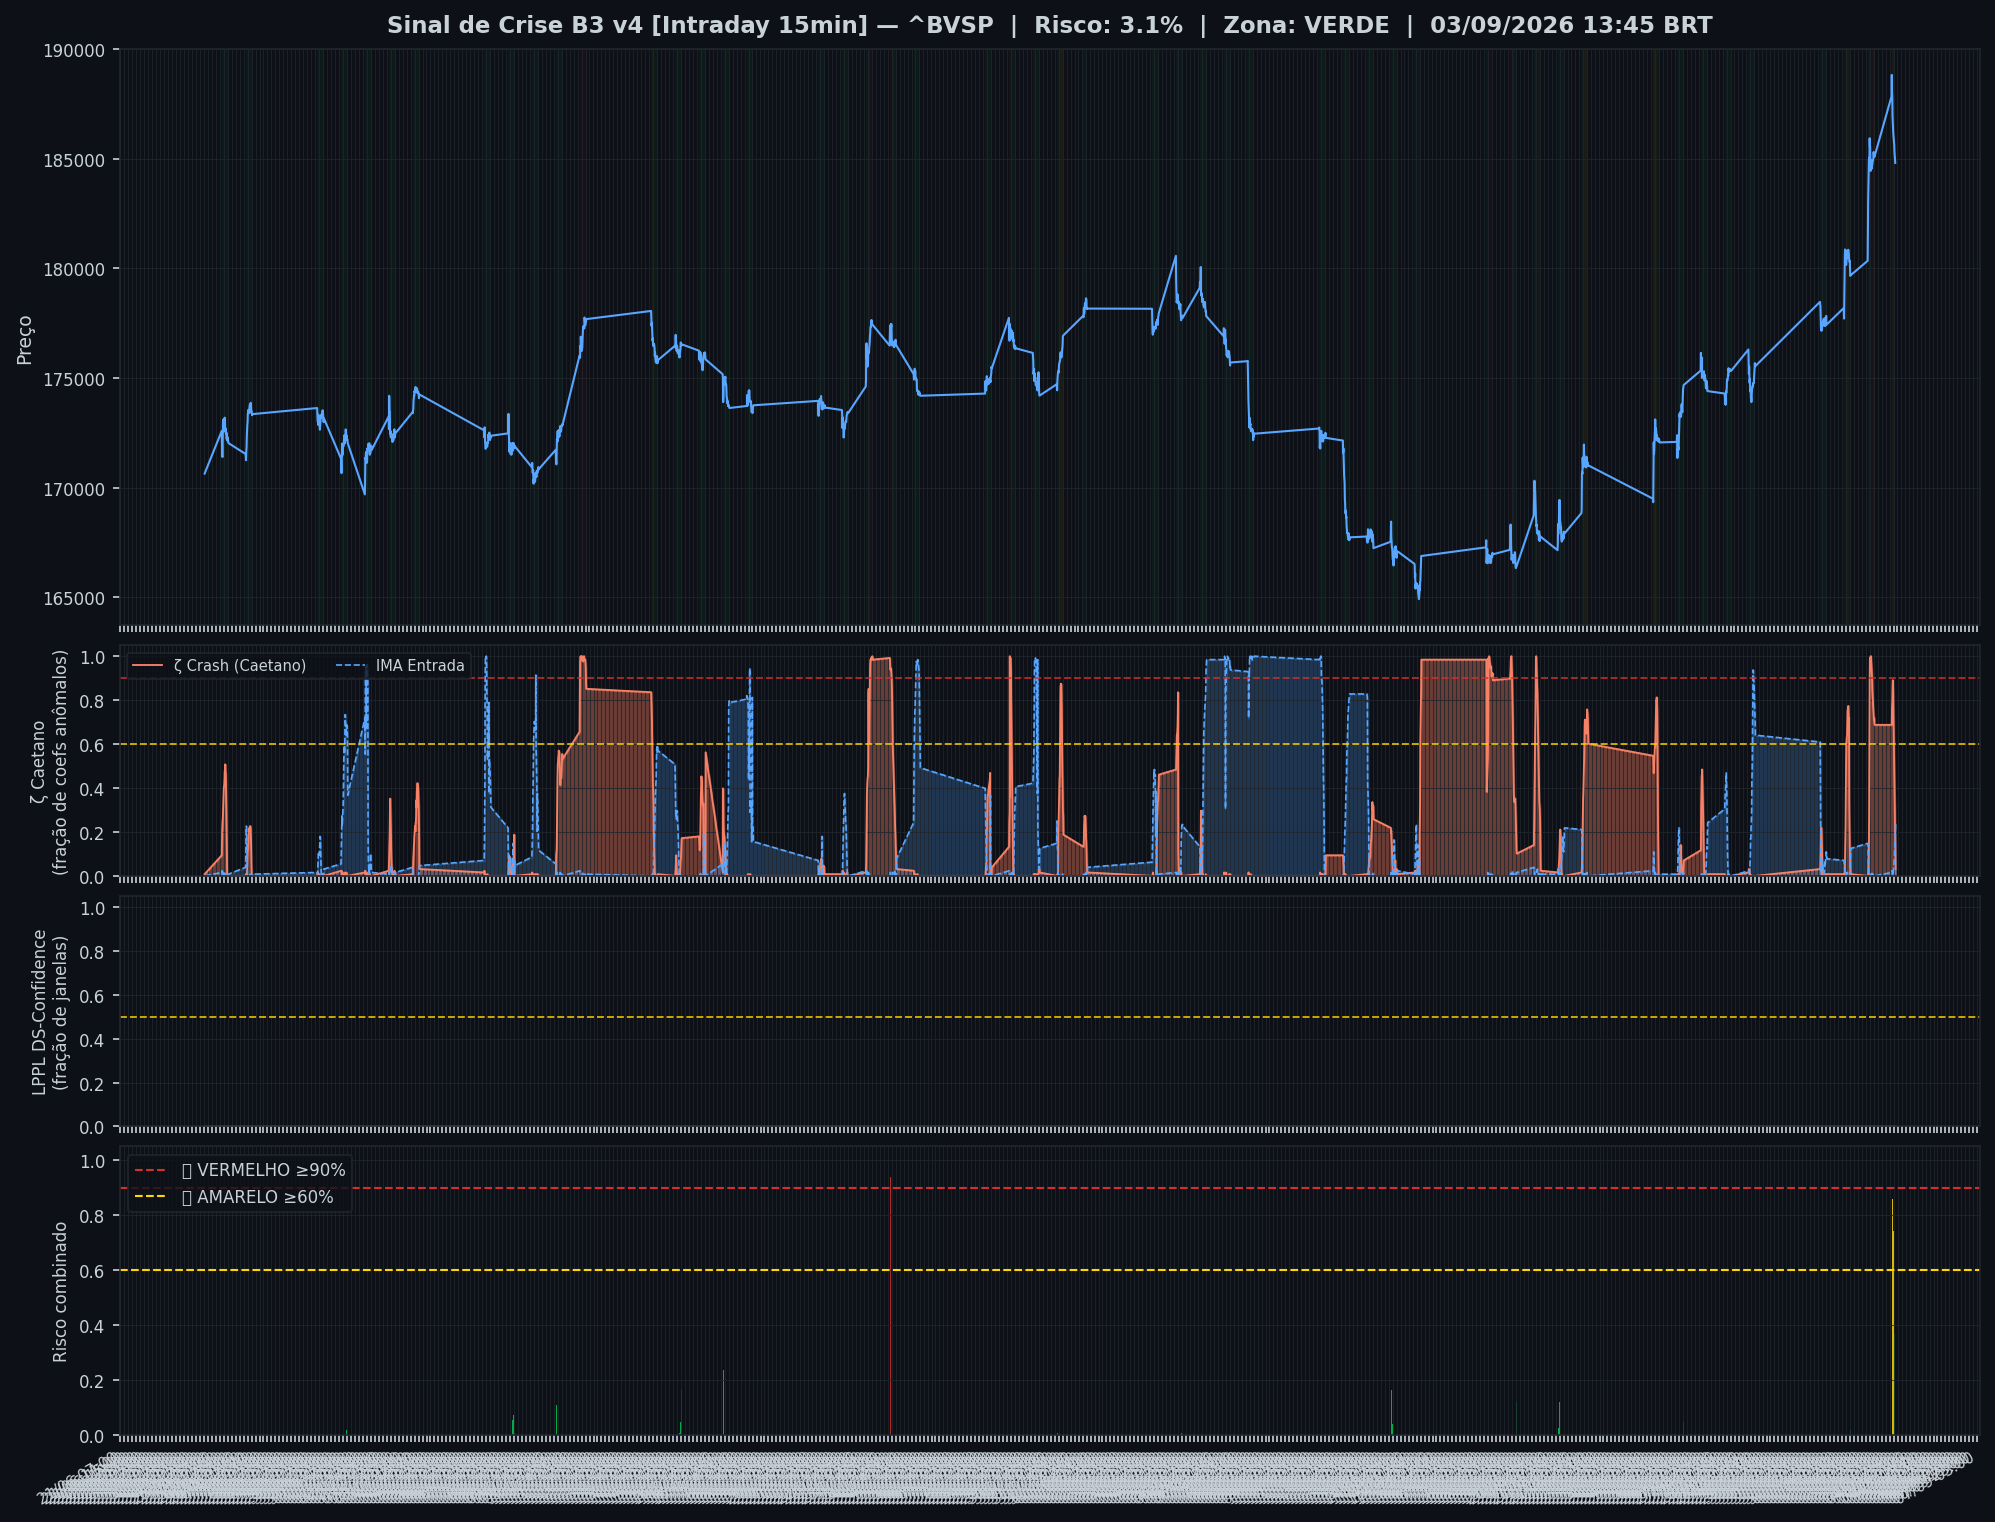
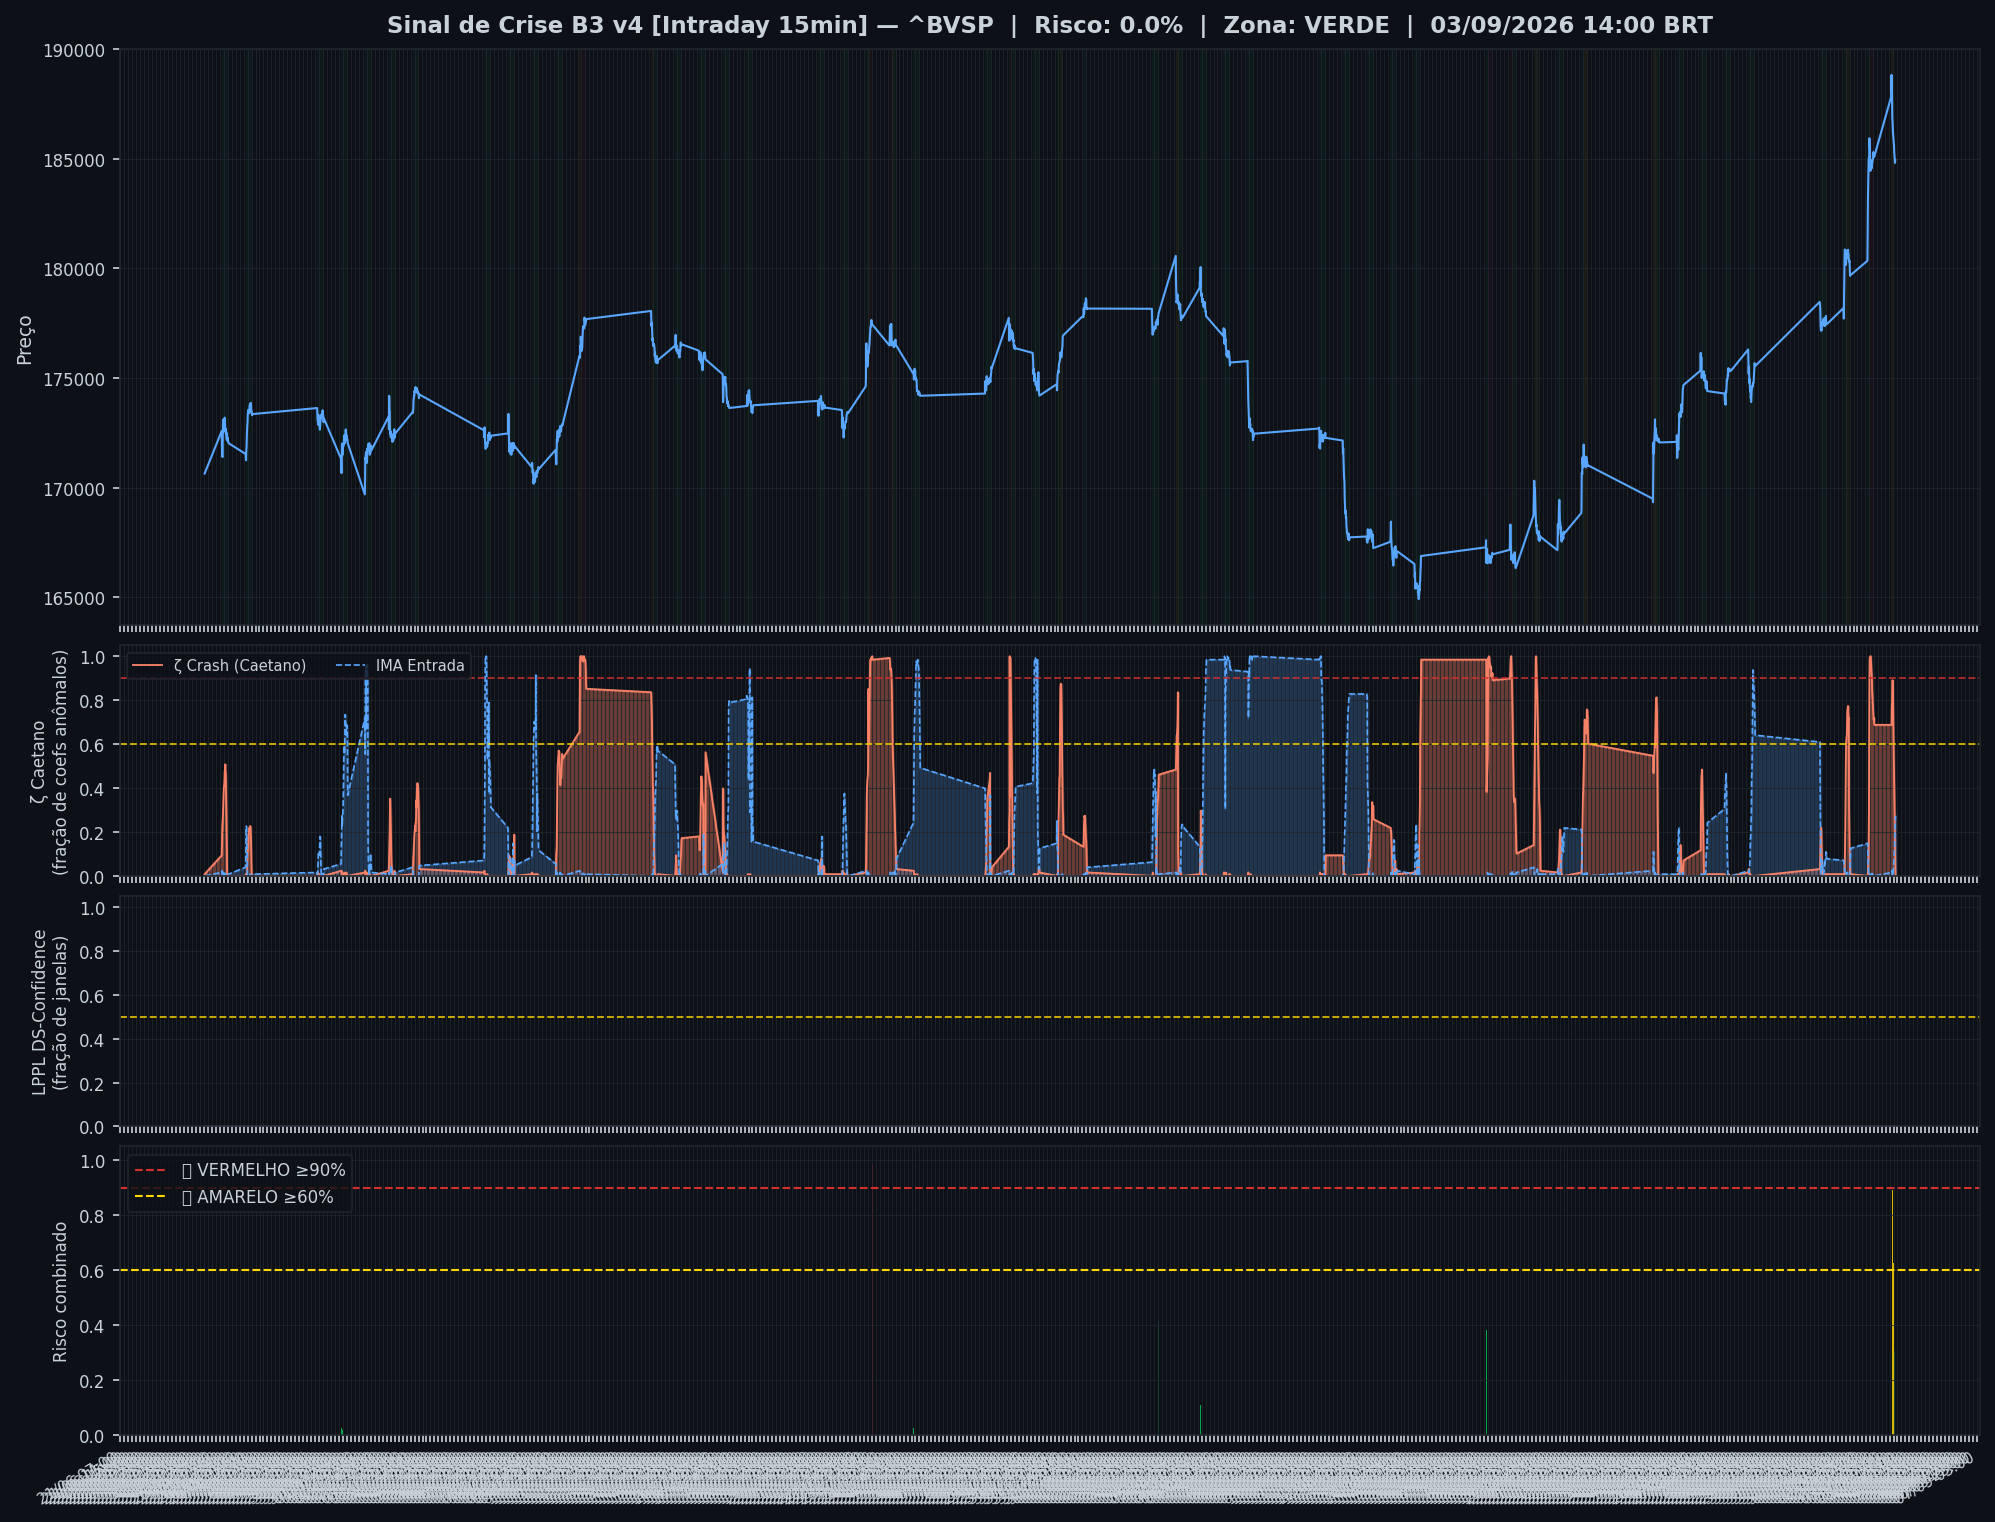
🤖 Auto: Sinal 03/09/2026 14:46

diff --git a/content/intraday/2026-09-03.md b/content/intraday/2026-09-03.md
@@ -1,20 +1,20 @@
 ---
-title: "🟢 Intraday 03/09/2026 13:45 BRT — VERDE"
+title: "🟢 Intraday 03/09/2026 14:00 BRT — VERDE"
 date: 2026-09-03
 tags: [intraday]
 ---
 
-> [!success] 🟢 **VERDE** — Risco 3% · ▼ -9 p.p. vs leitura anterior
-> `█░░░░░░░░░░░░░░░░░░░`
+> [!success] 🟢 **VERDE** — Risco 0% · ▼ -3 p.p. vs leitura anterior
+> `░░░░░░░░░░░░░░░░░░░░`
 > Mercado sem sinais relevantes de estresse.
 
 
 | Indicador | Valor |
 |---|---|
-| 🔴 ζ Crash — severidade da queda em curso | **3%** |
-| 🔵 ζ Entrada — estrutura de fundo | 23% |
+| 🔴 ζ Crash — severidade da queda em curso | **0%** |
+| 🔵 ζ Entrada — estrutura de fundo | 27% |
 | 🫧 LPPL DS-Confidence | 0% |
-| 📊 Ibovespa | 184.803 pts |
+| 📊 Ibovespa | 184.937 pts |
 
 ![Gráfico do sinal](../graficos/sinal_intraday.png)
 
@@ -22,6 +22,7 @@ tags: [intraday]
 
 | Data | Zona | Risco | IMA Crash | Entrada | LPPL |
 |---|---|---|---|---|---|
+| 2026-09-03 14:00 | 🟢 VERDE | **0%** | 0% | 27% | 0% |
 | 2026-09-03 13:45 | 🟢 VERDE | **3%** | 3% | 23% | 0% |
 | 2026-09-03 13:30 | 🟢 VERDE | **12%** | 12% | 20% | 0% |
 | 2026-09-03 13:15 | 🟢 VERDE | **23%** | 23% | 16% | 0% |
@@ -51,7 +52,6 @@ tags: [intraday]
 | 2026-09-02 14:15 | 🔴 VERMELHO | **89%** | 89% | 0% | 0% |
 | 2026-09-02 14:00 | 🔴 VERMELHO | **91%** | 91% | 1% | 0% |
 | 2026-09-02 13:45 | 🔴 VERMELHO | **94%** | 94% | 2% | 0% |
-| 2026-09-02 13:30 | 🔴 VERMELHO | **96%** | 96% | 1% | 0% |
 
 ## Monitor Multi-Ativo
 
@@ -59,37 +59,37 @@ tags: [intraday]
 
 | Zona | Ativo | Setor | IMA Crash | IMA Entrada |
 |---|---|---|---|---|
-| 🟢 | **PETROBRAS** | Petróleo | 67.2% | 0.0% |
-| 🟢 | **ITAUUNIBANCO** | Financeiro | 67.2% | 0.0% |
-| 🟢 | **AXIA ENERGIA** | Energia | 67.2% | 0.0% |
-| 🟢 | **PETROBRAS** | Petróleo | 67.2% | 0.0% |
-| 🟢 | **BRADESCO** | Financeiro | 67.2% | 0.0% |
-| 🟢 | **B3** | Financeiro | 67.2% | 0.0% |
-| 🟢 | **ITAUSA** | Financeiro | 67.2% | 0.0% |
-| 🟢 | **WEG** | Industrial | 67.2% | 0.0% |
-| 🟢 | **SABESP** | Saneamento | 67.2% | 0.0% |
-| 🟢 | **BTGP BANCO** | Financeiro | 67.2% | 0.0% |
-| 🟢 | **AMBEV S/A** | Consumo | 67.2% | 0.0% |
-| 🟢 | **EMBRAER** | Outros | 67.2% | 0.0% |
-| 🟢 | **BRASIL** | Financeiro | 67.2% | 0.0% |
-| 🟢 | **ENEVA** | Energia | 67.2% | 0.0% |
-| 🟢 | **PRIO** | Petróleo | 67.2% | 0.0% |
-| 🟢 | **EQUATORIAL** | Energia | 67.2% | 0.0% |
-| 🟢 | **COPEL** | Energia | 67.2% | 0.0% |
-| 🟢 | **VIBRA** | Energia | 67.2% | 0.0% |
-| 🟢 | **REDE D OR** | Saúde | 67.2% | 0.0% |
-| 🟢 | **ULTRAPAR** | Outros | 67.2% | 0.0% |
-| 🟢 | **LOCALIZA** | Aluguel | 67.2% | 0.0% |
-| 🟢 | **GERDAU** | Siderurgia | 67.2% | 0.0% |
-| 🟢 | **SUZANO S.A.** | Papel/Celulose | 67.2% | 0.0% |
-| 🟢 | **RAIADROGASIL** | Outros | 67.2% | 0.0% |
-| 🟢 | **BBSEGURIDADE** | Financeiro | 67.2% | 0.0% |
-| 🟢 | **USD/BRL** | Câmbio | 62.5% | 0.0% |
-| 🟢 | **VALE** | Mineração | 61.7% | 0.8% |
+| 🟢 | **VALE** | Mineração | 67.2% | 0.0% |
+| 🟢 | **PETROBRAS** | Petróleo | 62.5% | 0.0% |
+| 🟢 | **ITAUUNIBANCO** | Financeiro | 62.5% | 0.0% |
+| 🟢 | **AXIA ENERGIA** | Energia | 62.5% | 0.0% |
+| 🟢 | **PETROBRAS** | Petróleo | 62.5% | 0.0% |
+| 🟢 | **BRADESCO** | Financeiro | 62.5% | 0.0% |
+| 🟢 | **B3** | Financeiro | 62.5% | 0.0% |
+| 🟢 | **ITAUSA** | Financeiro | 62.5% | 0.0% |
+| 🟢 | **WEG** | Industrial | 62.5% | 0.0% |
+| 🟢 | **SABESP** | Saneamento | 62.5% | 0.0% |
+| 🟢 | **BTGP BANCO** | Financeiro | 62.5% | 0.0% |
+| 🟢 | **AMBEV S/A** | Consumo | 62.5% | 0.0% |
+| 🟢 | **EMBRAER** | Outros | 62.5% | 0.0% |
+| 🟢 | **BRASIL** | Financeiro | 62.5% | 0.0% |
+| 🟢 | **ENEVA** | Energia | 62.5% | 0.0% |
+| 🟢 | **PRIO** | Petróleo | 62.5% | 0.0% |
+| 🟢 | **EQUATORIAL** | Energia | 62.5% | 0.0% |
+| 🟢 | **COPEL** | Energia | 62.5% | 0.0% |
+| 🟢 | **VIBRA** | Energia | 62.5% | 0.0% |
+| 🟢 | **REDE D OR** | Saúde | 62.5% | 0.0% |
+| 🟢 | **ULTRAPAR** | Outros | 62.5% | 0.0% |
+| 🟢 | **LOCALIZA** | Aluguel | 62.5% | 0.0% |
+| 🟢 | **GERDAU** | Siderurgia | 62.5% | 0.0% |
+| 🟢 | **SUZANO S.A.** | Papel/Celulose | 62.5% | 0.0% |
+| 🟢 | **RAIADROGASIL** | Outros | 62.5% | 0.0% |
+| 🟢 | **BBSEGURIDADE** | Financeiro | 62.5% | 0.0% |
+| 🟢 | **USD/BRL** | Câmbio | 57.0% | 0.8% |
 
 ![Monitor multi-ativo](../graficos/multi_intraday.png)
 
-*Página atualizada em 03/09/2026 14:30 BRT (leitura da barra de 2026-09-03 13:45 BRT).*
+*Página atualizada em 03/09/2026 14:46 BRT (leitura da barra de 2026-09-03 14:00 BRT).*
 
 > [!info]- Como interpretar (clique para expandir)
 > - **ζ Crash**: fração dos coeficientes wavelet acima do corte (Caetano & Yoneyama 2009). Escala absoluta: ζ=0,90 = 90% dos coeficientes anômalos — historicamente, quedas com ζ≥0,90 foram mais fundas e mais longas. **Mede a severidade do movimento em curso, não prevê o início da queda.**

diff --git a/content/index.md b/content/index.md
@@ -8,19 +8,19 @@ tags: [home]
 
 Monitoramento diário e intraday do Ibovespa — **IMA Wavelet** (Prof. Marco Antonio Leonel Caetano, ITA/INSPER) + **LPPL DS-Confidence** (Prof. Didier Sornette, ETH-Zurich).
 
-*Última atualização: 03/09/2026 14:30 BRT · ^BVSP · Intraday 15min · v4*
+*Última atualização: 03/09/2026 14:46 BRT · ^BVSP · Intraday 15min · v4*
 
-> [!success] 🟢 **VERDE** — Risco 3% · ▼ -9 p.p. vs leitura anterior
-> `█░░░░░░░░░░░░░░░░░░░`
+> [!success] 🟢 **VERDE** — Risco 0% · ▼ -3 p.p. vs leitura anterior
+> `░░░░░░░░░░░░░░░░░░░░`
 > Mercado sem sinais relevantes de estresse.
 
 
 | Indicador | Valor |
 |---|---|
-| 🔴 ζ Crash — severidade da queda em curso | **3%** |
-| 🔵 ζ Entrada — estrutura de fundo | 23% |
+| 🔴 ζ Crash — severidade da queda em curso | **0%** |
+| 🔵 ζ Entrada — estrutura de fundo | 27% |
 | 🫧 LPPL DS-Confidence | 0% |
-| 📊 Ibovespa | 184.803 pts |
+| 📊 Ibovespa | 184.937 pts |
 
 **Multi-ativo:** 0% em tensão (0🔴 0🟡 de 27 ativos)
 
@@ -32,7 +32,7 @@ Monitoramento diário e intraday do Ibovespa — **IMA Wavelet** (Prof. Marco An
 
 | Data | Zona | Risco | IMA | LPPL |
 |---|---|---|---|---|
-| [03 Sep 2026](diario/2026-09-03) | 🟢 VERDE | **3%** | 3% | 0% |
+| [03 Sep 2026](diario/2026-09-03) | 🟢 VERDE | **0%** | 0% | 0% |
 | [02 Sep 2026](diario/2026-09-02) | 🟡 AMARELO | **69%** | 69% | 0% |
 
 ## Navegação

diff --git a/content/historico.md b/content/historico.md
@@ -7,6 +7,7 @@ tags: [historico]
 
 | Data | Modo | Zona | Risco | IMA | LPPL |
 |---|---|---|---|---|---|
+| 2026-09-03 14:00 | intraday | 🟢 VERDE | 0% | 0% | 0% |
 | 2026-09-03 13:45 | intraday | 🟢 VERDE | 3% | 3% | 0% |
 | 2026-09-03 13:30 | intraday | 🟢 VERDE | 12% | 12% | 0% |
 | 2026-09-03 13:15 | intraday | 🟢 VERDE | 23% | 23% | 0% |
